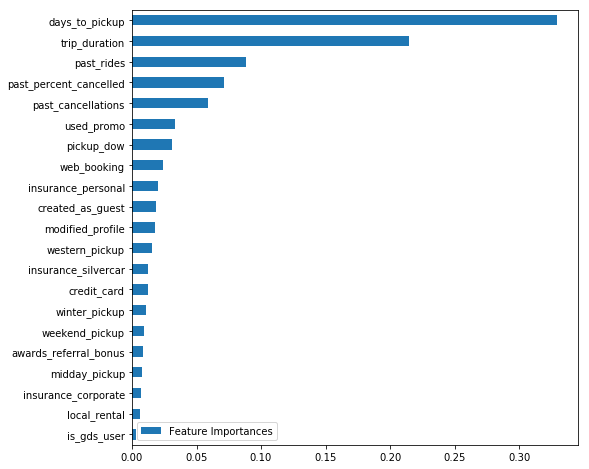
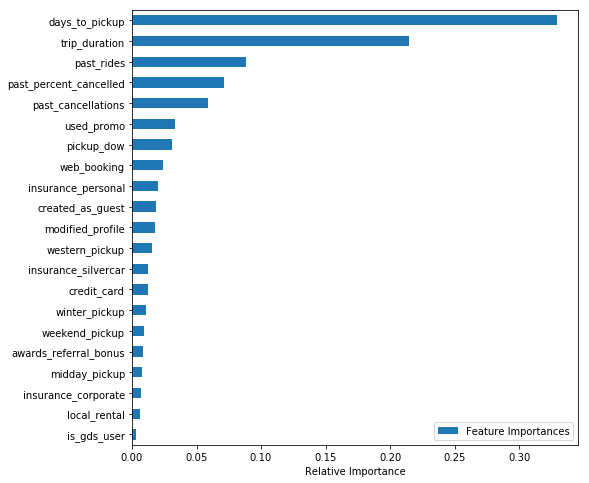
Cleaned up feature importance plot

Changed region(s): [[0.0, 0.0, 0.9779, 0.9851], [0.7334, 0.8657, 0.9779, 0.9851], [0.5195, 0.9254, 0.7029, 0.9851]]

diff --git a/EDA/EDA.py b/EDA/EDA.py
@@ -57,7 +57,10 @@ def plot_feature_importances(df, feature_importances):
     feat_scores = pd.DataFrame({'Feature Importances': feature_importances},
                            index=df.columns)
     feat_scores = feat_scores.sort_values(by='Feature Importances')
-    feat_scores.plot(kind='barh', figsize=(8,8))
+    fig, ax = plt.subplots()
+    feat_scores.plot(kind='barh', figsize=(8, 8), ax=ax)
+    ax.set_xlabel("Relative Importance")
+    ax.legend(loc=4)
 
 
 def plot_confusion_matrix(cm):
